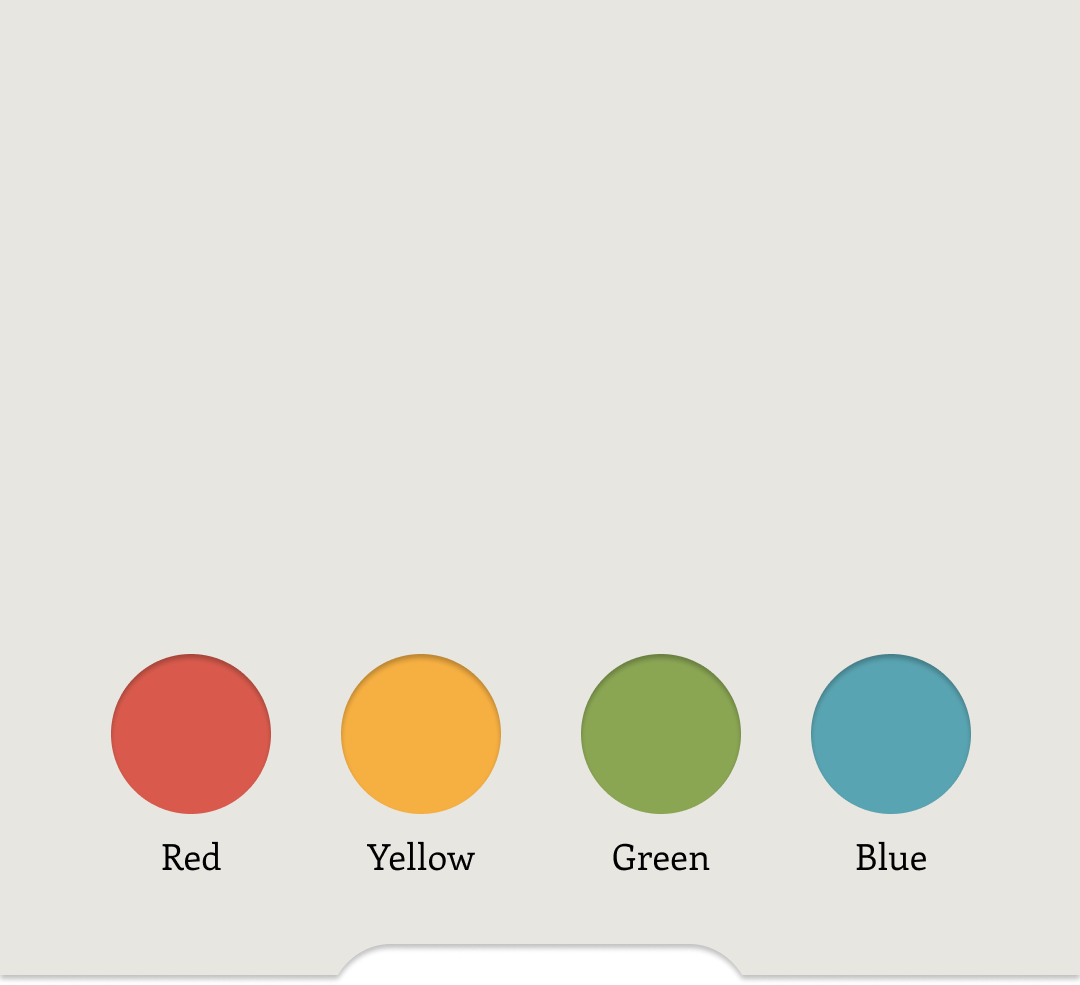
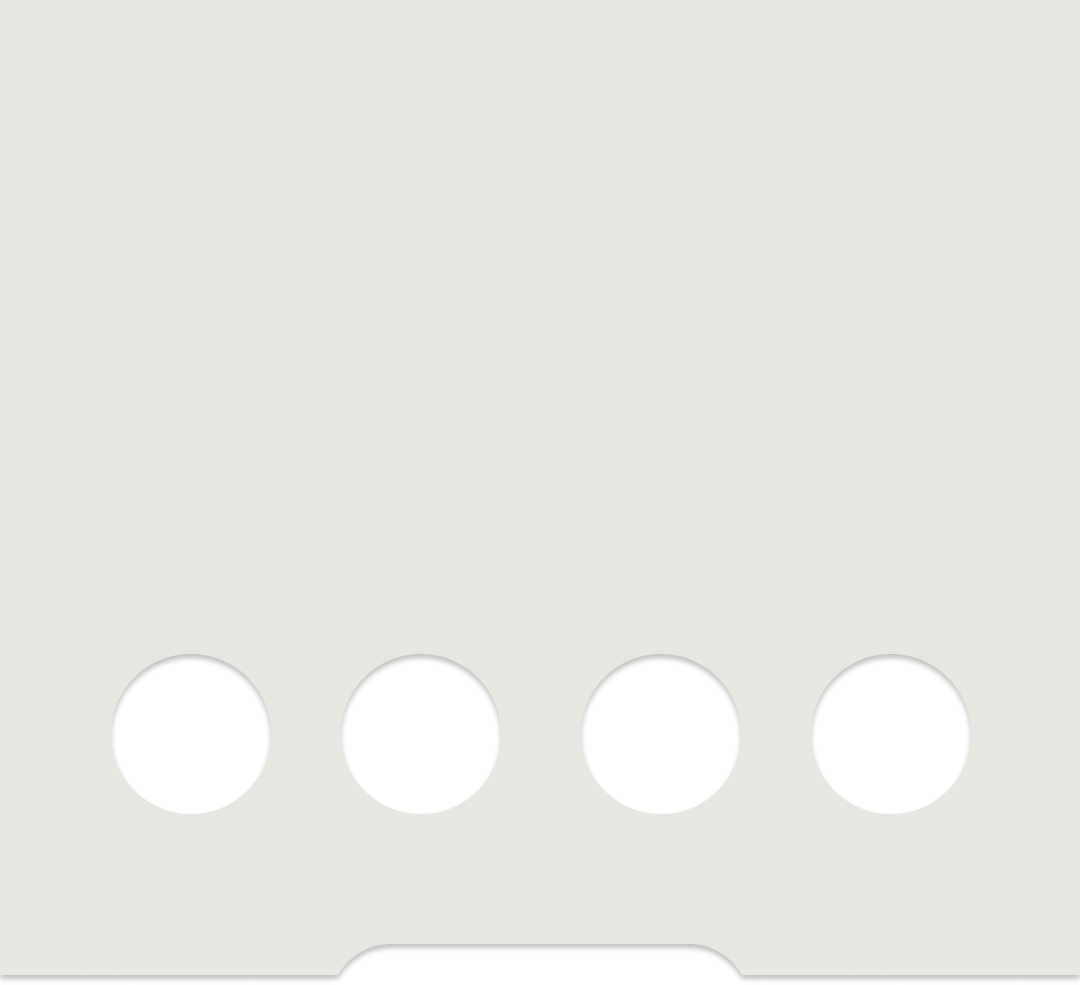
Enable dynamic 4 from 8 color selection during user create

diff --git a/public/js/script.js b/public/js/script.js
@@ -734,9 +734,16 @@ function showUsePhoneScreen() {
   document.getElementById("use-phone-screen").style.display = "block";
 }
 
-function showCreateNewUserScreen() {
+async function showCreateNewUserScreen() {
   isTimerActive = true;
   startInactivityTimer();
+
+  await fetch("/api/colors/html?isRejoin=false").then((response) =>
+    response.text().then((html) => {
+      const colorPicker = document.getElementById("color-picker");
+      colorPicker.innerHTML = html;
+    })
+  );
 
   const createNewUserScreen = document.getElementById("create-new-user-screen");
   createNewUserScreen.style.display = "block";
@@ -778,19 +785,8 @@ function showColorPicker() {
 }
 
 function clearColorSelectionIndicators(prefix = "") {
-  const prefixStr = prefix ? `${prefix}-` : "";
-  document
-    .getElementById(`${prefixStr}red-selected`)
-    .classList.remove("selected");
-  document
-    .getElementById(`${prefixStr}yellow-selected`)
-    .classList.remove("selected");
-  document
-    .getElementById(`${prefixStr}green-selected`)
-    .classList.remove("selected");
-  document
-    .getElementById(`${prefixStr}blue-selected`)
-    .classList.remove("selected");
+  const selectionIcons = document.querySelectorAll(".color-selection-icon");
+  selectionIcons.forEach((icon) => icon.classList.remove("selected"));
 }
 
 function showColorSelectionIndicator(colorDisplayName, prefix = "") {
@@ -804,7 +800,7 @@ function showColorSelectionIndicator(colorDisplayName, prefix = "") {
 
 function updateBadgeColor(colorDisplayName) {
   const badgeBase = document.getElementById("badge-base");
-  badgeBase.src = `images/userCreation/badge_${colorDisplayName}.png`;
+  badgeBase.src = `images/users/badges/${colorDisplayName}.png`;
 }
 
 async function updateAnimalContainer(colorId) {

diff --git a/public/css/style.css b/public/css/style.css
@@ -621,11 +621,17 @@ button {
   z-index: 5;
 }
 
+#color-picker-panel {
+  position: absolute;
+  z-index: 1;
+  pointer-events: none;
+}
+
 #color-picker {
   position: absolute;
   top: -1337px;
   left: 0px;
-  z-index: 6;
+  width: 100%;
 }
 
 #rejoin-color-picker {
@@ -639,12 +645,60 @@ button {
   position: absolute;
   width: 1080px;
   top: 650px;
+  z-index: 0;
+}
+
+#color-options-container > div {
+  position: absolute;
 }
 
 #rejoin-color-options-container {
   position: absolute;
   width: 1080px;
   top: 648px;
+}
+
+#color-options-container > div:nth-child(1) {
+  left: 106px;
+}
+#color-options-container > div:nth-child(2) {
+  left: 337px;
+}
+#color-options-container > div:nth-child(3) {
+  left: 576px;
+}
+#color-options-container > div:nth-child(4) {
+  left: 805px;
+}
+
+#color-text-container {
+  position: absolute;
+  height: 48px;
+  width: 100%;
+  top: 834px;
+  font-family: "Enriqueta";
+  font-size: 36px;
+  text-align: center;
+  z-index: 1;
+}
+
+.color-text {
+  display: inline-block;
+  position: absolute;
+  width: 160px;
+}
+
+#color-text-container > div:nth-child(1) {
+  left: 111px;
+}
+#color-text-container > div:nth-child(2) {
+  left: 341px;
+}
+#color-text-container > div:nth-child(3) {
+  left: 581px;
+}
+#color-text-container > div:nth-child(4) {
+  left: 811px;
 }
 
 #rejoin-color-picker-instructions {
@@ -654,26 +708,6 @@ button {
   font-family: "Enriqueta";
   font-size: 36px;
   text-align: center;
-}
-
-#option-red {
-  position: absolute;
-  left: 106px;
-}
-
-#option-yellow {
-  position: absolute;
-  left: 337px;
-}
-
-#option-blue {
-  position: absolute;
-  left: 805px;
-}
-
-#option-green {
-  position: absolute;
-  left: 576px;
 }
 
 .color-button {

diff --git a/app.js b/app.js
@@ -16,6 +16,7 @@ import {
   getAllColors,
   getAvailableAnimalsForColor,
   createUser,
+  get4Colors,
 } from "./db/queries/userCreate.js";
 import {
   getAllColorsFromUsers,
@@ -143,6 +144,17 @@ app.get("/api/colors", async (req, res) => {
   } catch (error) {
     console.error("Error fetching colors:", error);
     res.status(500).json({ error: "Failed to fetch colors" });
+  }
+});
+
+app.get("/api/colors/html", async (req, res) => {
+  const isRejoin = req.query.isRejoin === "true";
+  try {
+    const colors = await get4Colors(db);
+    res.render("partials/color_picker", { colors, isRejoin });
+  } catch (error) {
+    console.error("Error fetching colors:", error);
+    res.status(500).send("<p>Error loading colors</p>");
   }
 });
 

diff --git a/db/queries/userCreate.js b/db/queries/userCreate.js
@@ -10,6 +10,19 @@ export function getAllColors(db) {
     .all();
 }
 
+export function get4Colors(db) {
+  return db
+    .prepare(
+      `
+    SELECT id, name, hex, badgePath
+    FROM userColors
+    ORDER BY RANDOM()
+    LIMIT 4
+  `
+    )
+    .all();
+}
+
 export function getAvailableAnimalsForColor(db, colorId, limit = null) {
   let query = `
     SELECT ua.id, ua.name, ua.imgPath
